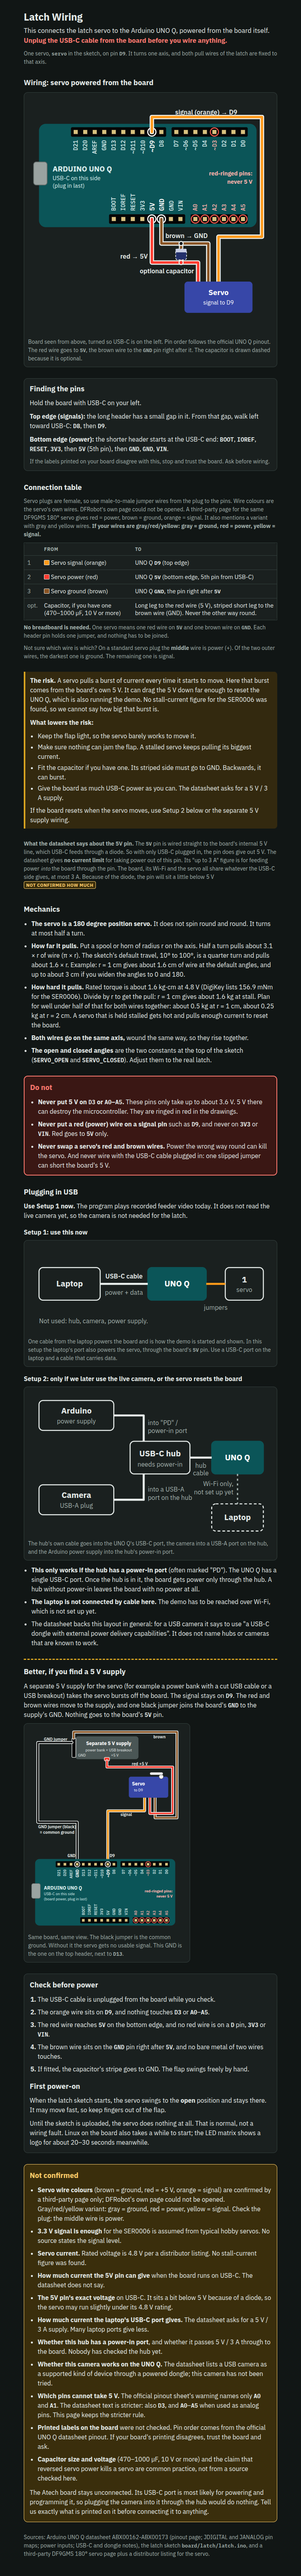
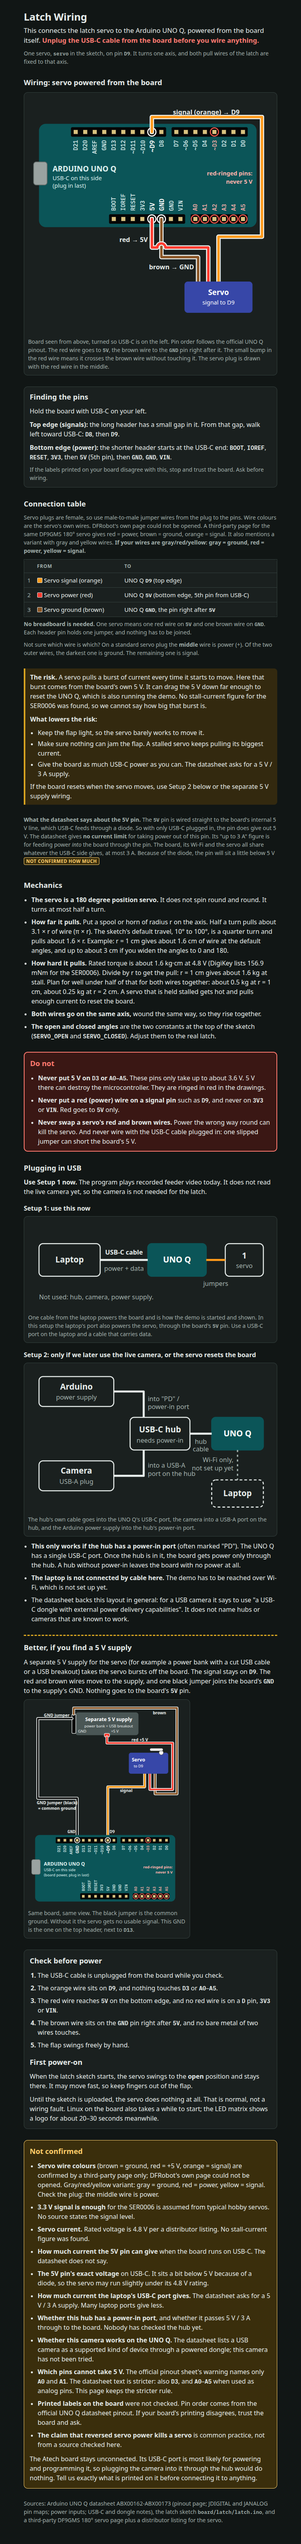
fix: wiring drawing shows red in the middle of the servo plug; drop the optional capacitor

Changed region(s): [[0.0605, 0.0, 0.9382, 0.9963], [0.1211, 0.0623, 0.1513, 0.0934]]

diff --git a/docs/latch-wiring.html b/docs/latch-wiring.html
@@ -126,9 +126,6 @@ td.n { font-variant-numeric: tabular-nums; color: var(--muted); width: 1.5em; }
 .rail { fill: var(--w-jmp); stroke: var(--w-edge); stroke-width: 1.2; }
 .term { fill: var(--w-pwr); stroke: var(--w-edge); stroke-width: 1.2; }
 .usb { fill: #9aa3a1; stroke: #5d6664; stroke-width: 1; }
-.cap { fill: #23306b; stroke: var(--w-edge); stroke-width: 1; }
-.capstripe { fill: #c9cfe6; }
-.capt { font-family: var(--font-mono); font-size: 9px; font-weight: 700; fill: #23306b; }
 .arrow { fill: var(--w-sig); stroke: var(--w-edge); stroke-width: 1; }
 .h3 { font-size: 1rem; margin: 18px 0 8px; text-wrap: balance; }
 ul.plain { margin: 12px 0 0; padding-left: 1.2em; display: flex; flex-direction: column; gap: 8px; }
@@ -156,7 +153,7 @@ ul.plain { margin: 12px 0 0; padding-left: 1.2em; display: flex; flex-direction:
 <section>
   <h2>Wiring: servo powered from the board</h2>
   <figure>
-    <svg viewBox="0 0 360 350" role="img" aria-label="Servo powered from the UNO Q. The orange signal wire goes to D9 on the top header. The red wire goes to the 5V pin on the bottom header. The brown wire goes to the GND pin next to 5V. An optional capacitor sits across 5 V and GND.">
+    <svg viewBox="0 0 360 350" role="img" aria-label="Servo powered from the UNO Q. The orange signal wire goes to D9 on the top header. The red wire goes to the 5V pin on the bottom header. The brown wire goes to the GND pin next to 5V. The servo plug has the red wire in the middle.">
       <!-- ===== Board: USB-C left, digital header top, power header bottom ===== -->
       <rect class="board" x="16" y="40" width="320" height="152" rx="10"/>
       <rect class="usb" x="8" y="96" width="20" height="34" rx="4"/>
@@ -235,31 +232,25 @@ ul.plain { margin: 12px 0 0; padding-left: 1.2em; display: flex; flex-direction:
       </g>
 
       <!-- ===== Wires ===== -->
-      <!-- brown -> GND pin next to 5V (higher lane) -->
-      <path class="edge" d="M265,272 V216 H196 V180"/><path class="w gnd" d="M265,272 V216 H196 V180"/>
-      <!-- red -> 5V (lower lane, so the two never cross) -->
-      <path class="edge" d="M250,272 V244 H182 V180"/><path class="w pwr" d="M250,272 V244 H182 V180"/>
-      <!-- optional capacitor across red / brown -->
-      <path class="edge" d="M225,216 V224 M225,240 V244"/>
-      <path class="w gnd" d="M225,216 V224"/><path class="w pwr" d="M225,240 V244"/>
-      <rect class="cap" x="217" y="224" width="16" height="16" rx="3" style="stroke-dasharray:3 2"/>
-      <rect class="capstripe" x="217" y="224" width="16" height="5"/>
-      <!-- orange -> D9 -->
+      <!-- brown (left of red on the plug) -> GND pin next to 5V -->
+      <path class="edge" d="M250,272 V236 H196 V180"/><path class="w gnd" d="M250,272 V236 H196 V180"/>
+      <!-- red (middle of the plug) -> 5V, hopping over the brown wire -->
+      <path class="edge" d="M265,272 V222 H202 A6,6 0 0 0 190,222 H182 V180"/>
+      <path class="w pwr" d="M265,272 V222 H202 A6,6 0 0 0 190,222 H182 V180"/>
+      <!-- orange (right of red on the plug) -> D9 -->
       <path class="edge" d="M280,272 V206 H344 V30 H182 V52"/><path class="w sig" d="M280,272 V206 H344 V30 H182 V52"/>
-      <circle class="dot-gnd" cx="225" cy="216" r="3"/><circle class="dot-pwr" cx="225" cy="244" r="3"/>
 
       <!-- labels -->
       <text class="lbl" x="262" y="26" text-anchor="middle">signal (orange) → D9</text>
-      <text class="lbl" x="202" y="208">brown → GND</text>
-      <text class="lbl" x="176" y="238" text-anchor="end">red → 5V</text>
-      <text class="lbl" x="244" y="260" text-anchor="end">optional capacitor</text>
+      <text class="lbl" x="244" y="254" text-anchor="end">brown → GND</text>
+      <text class="lbl" x="176" y="214" text-anchor="end">red → 5V</text>
 
       <!-- ===== Servo ===== -->
       <rect class="servo" x="230" y="272" width="100" height="46" rx="5"/>
       <text class="st" x="280" y="292" text-anchor="middle">Servo</text>
       <text class="ss" x="280" y="306" text-anchor="middle">signal to D9</text>
     </svg>
-    <figcaption>Board seen from above, turned so USB-C is on the left. Pin order follows the official UNO Q pinout. The red wire goes to <span class="pin">5V</span>, the brown wire to the <span class="pin">GND</span> pin right after it. The capacitor is drawn dashed because it is optional.</figcaption>
+    <figcaption>Board seen from above, turned so USB-C is on the left. Pin order follows the official UNO Q pinout. The red wire goes to <span class="pin">5V</span>, the brown wire to the <span class="pin">GND</span> pin right after it. The small bump in the red wire means it crosses the brown wire without touching it. The servo plug is drawn with the red wire in the middle.</figcaption>
   </figure>
 </section>
 
@@ -281,7 +272,6 @@ ul.plain { margin: 12px 0 0; padding-left: 1.2em; display: flex; flex-direction:
       <tr><td class="n">1</td><td><span class="sw sig"></span>Servo signal (orange)</td><td>UNO Q <span class="pin">D9</span> (top edge)</td></tr>
       <tr><td class="n">2</td><td><span class="sw pwr"></span>Servo power (red)</td><td>UNO Q <span class="pin">5V</span> (bottom edge, 5th pin from USB-C)</td></tr>
       <tr><td class="n">3</td><td><span class="sw gnd"></span>Servo ground (brown)</td><td>UNO Q <span class="pin">GND</span>, the pin right after <span class="pin">5V</span></td></tr>
-      <tr><td class="n">opt.</td><td>Capacitor, if you have one (470–1000 µF, 10 V or more)</td><td>Long leg to the red wire (5 V), striped short leg to the brown wire (GND). Never the other way round.</td></tr>
     </tbody>
   </table>
   </div>
@@ -295,7 +285,6 @@ ul.plain { margin: 12px 0 0; padding-left: 1.2em; display: flex; flex-direction:
   <ul>
     <li>Keep the flap light, so the servo barely works to move it.</li>
     <li>Make sure nothing can jam the flap. A stalled servo keeps pulling its biggest current.</li>
-    <li>Fit the capacitor if you have one. Its striped side must go to GND. Backwards, it can burst.</li>
     <li>Give the board as much USB-C power as you can. The datasheet asks for a 5 V / 3 A supply.</li>
   </ul>
   <p style="margin-top:8px">If the board resets when the servo moves, use Setup 2 below or the separate 5 V supply wiring.</p>
@@ -536,7 +525,7 @@ ul.plain { margin: 12px 0 0; padding-left: 1.2em; display: flex; flex-direction:
     <li>The orange wire sits on <span class="pin">D9</span>, and nothing touches <span class="pin">D3</span> or <span class="pin">A0</span>–<span class="pin">A5</span>.</li>
     <li>The red wire reaches <span class="pin">5V</span> on the bottom edge, and no red wire is on a <span class="pin">D</span> pin, <span class="pin">3V3</span> or <span class="pin">VIN</span>.</li>
     <li>The brown wire sits on the <span class="pin">GND</span> pin right after <span class="pin">5V</span>, and no bare metal of two wires touches.</li>
-    <li>If fitted, the capacitor's stripe goes to GND. The flap swings freely by hand.</li>
+    <li>The flap swings freely by hand.</li>
   </ol>
   <h2 style="margin-top:18px">First power-on</h2>
   <p>When the latch sketch starts, the servo swings to the <strong>open</strong> position and stays there. It may move fast, so keep fingers out of the flap.</p>
@@ -556,7 +545,7 @@ ul.plain { margin: 12px 0 0; padding-left: 1.2em; display: flex; flex-direction:
     <li><strong>Whether this camera works on the UNO Q.</strong> The datasheet lists a USB camera as a supported kind of device through a powered dongle; this camera has not been tried.</li>
     <li><strong>Which pins cannot take 5 V.</strong> The official pinout sheet's warning names only <span class="pin">A0</span> and <span class="pin">A1</span>. The datasheet text is stricter: also <span class="pin">D3</span>, and <span class="pin">A0</span>–<span class="pin">A5</span> when used as analog pins. This page keeps the stricter rule.</li>
     <li><strong>Printed labels on the board</strong> were not checked. Pin order comes from the official UNO Q datasheet pinout. If your board's printing disagrees, trust the board and ask.</li>
-    <li><strong>Capacitor size and voltage</strong> (470–1000 µF, 10 V or more) and the claim that reversed servo power kills a servo are common practice, not from a source checked here.</li>
+    <li><strong>The claim that reversed servo power kills a servo</strong> is common practice, not from a source checked here.</li>
   </ul>
   <p style="margin-top:12px">The Atech board stays unconnected. Its USB-C port is most likely for powering and programming it, so plugging the camera into it through the hub would do nothing. Tell us exactly what is printed on it before connecting it to anything.</p>
 </section>
